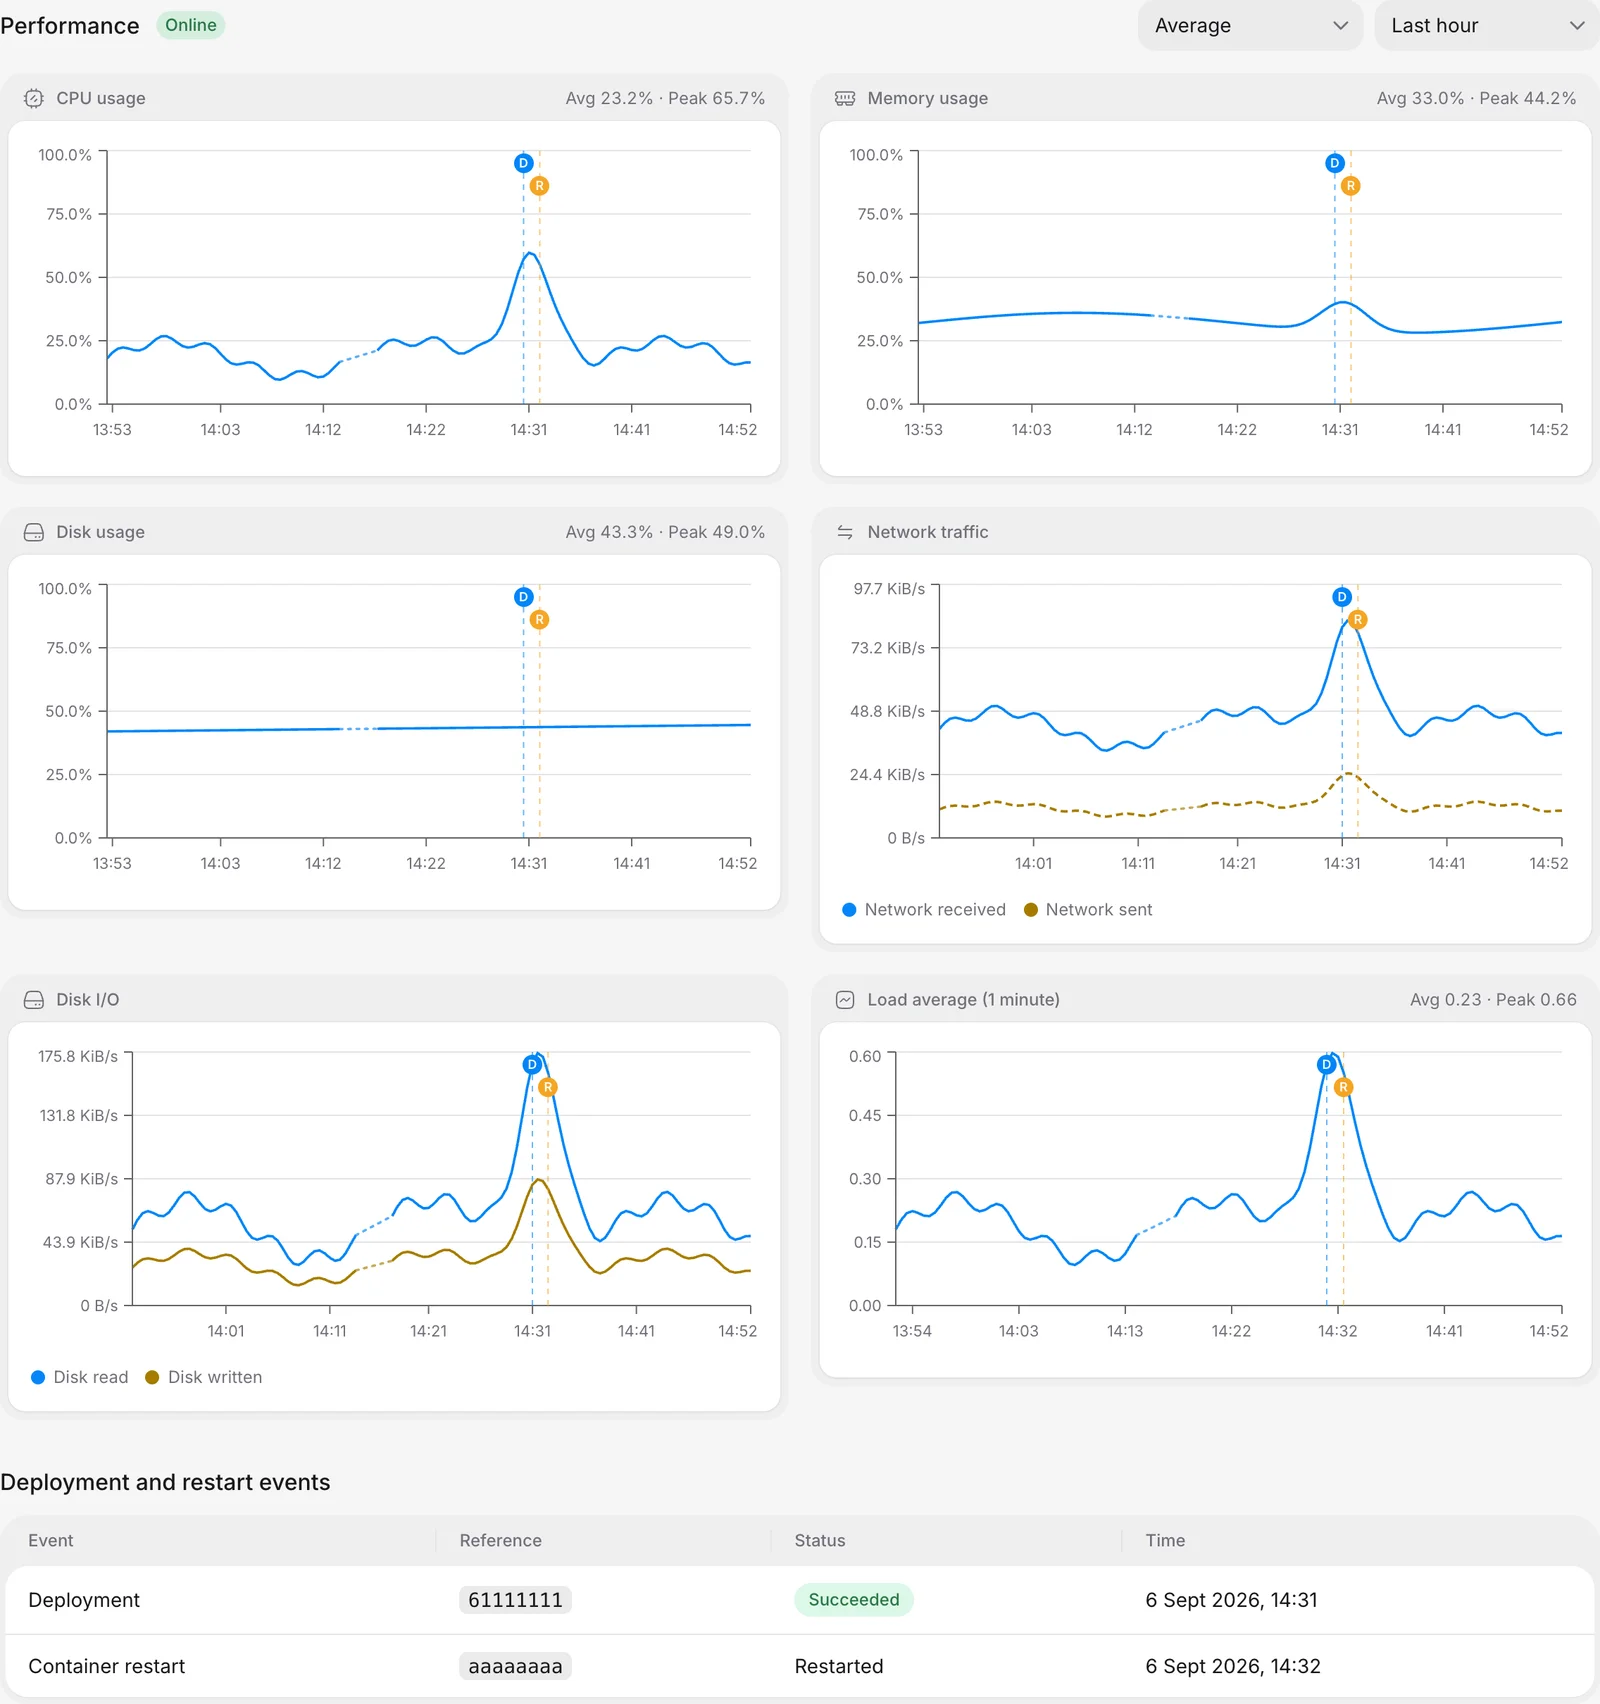
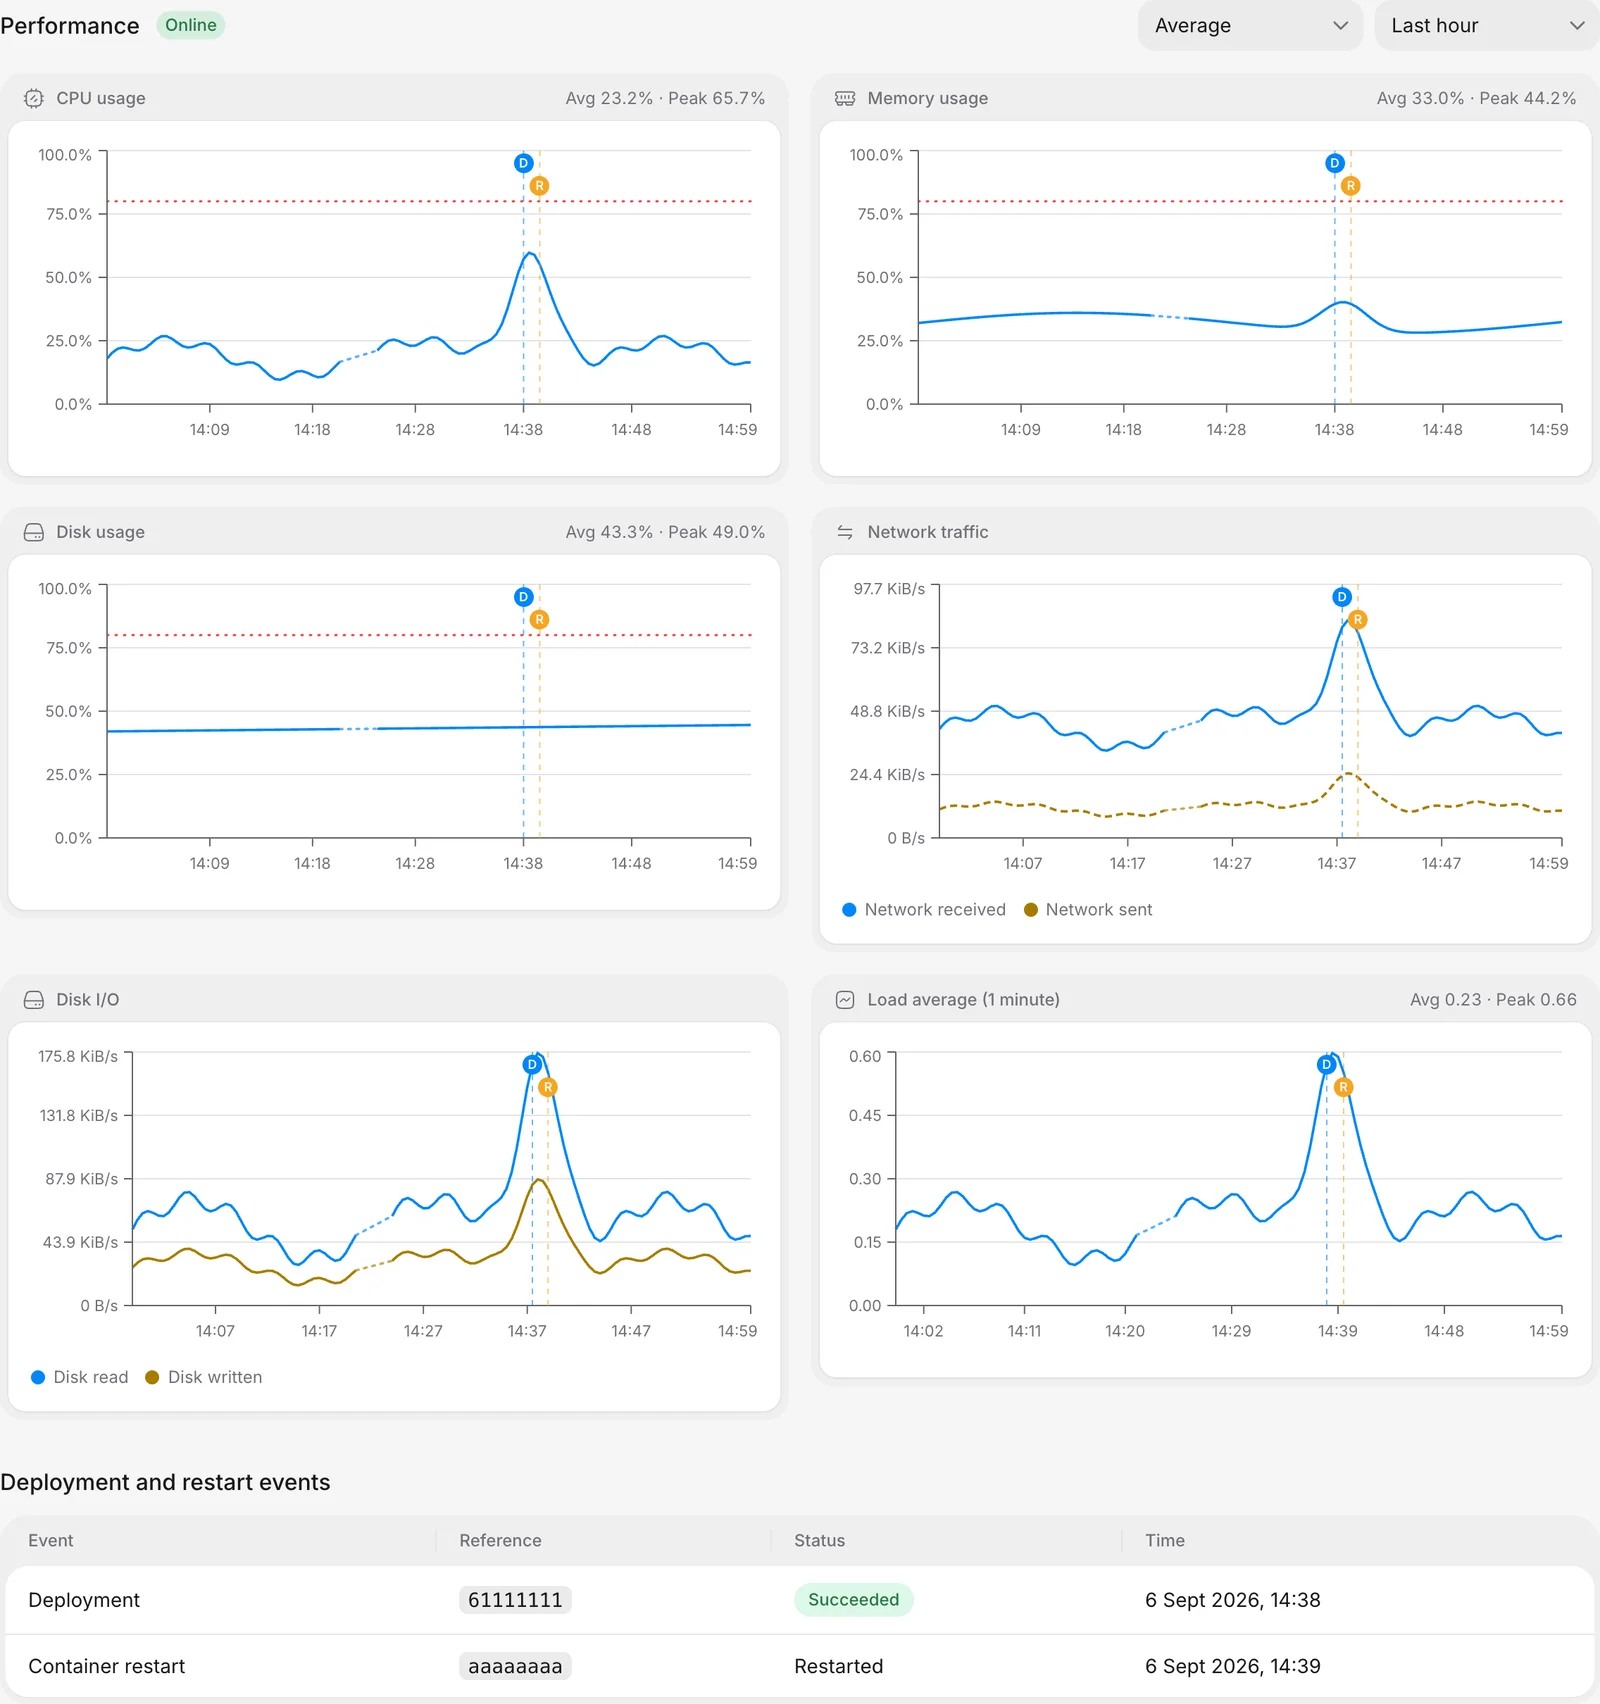
add dotted 80 percent threshold to Scout charts

diff --git a/apps/towbar-web-app/src/components/monitoring-metric-chart.tsx b/apps/towbar-web-app/src/components/monitoring-metric-chart.tsx
@@ -203,6 +203,18 @@ export const MetricChart = memo(function MetricChart({
                 : automaticDomain
             }
           />
+          {metrics[0]!.unit === "percent" ? (
+            <LineChart.ReferenceLine
+              y={80}
+              className="monitoring-usage-threshold"
+              aria-label="80% usage threshold"
+              stroke="var(--danger)"
+              strokeWidth={1.5}
+              strokeDasharray="1 5"
+              strokeLinecap="round"
+              zIndex={400}
+            />
+          ) : null}
           {gaps.map(({ line, segment }) => (
             <LineChart.ReferenceLine
               key={`gap:${line.key}:${segment[0].x}`}
